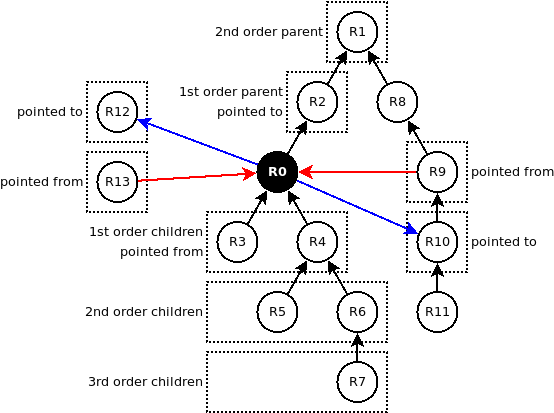
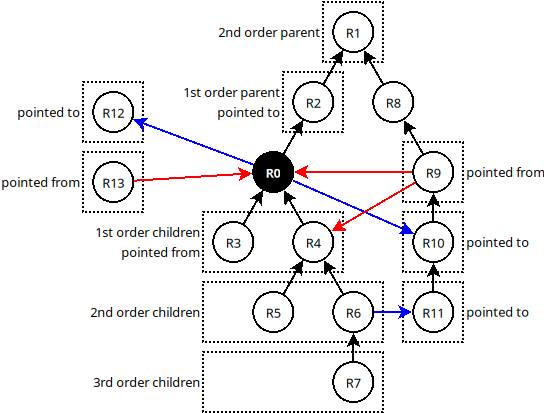
aux/metadata_api_for_programmers*: read mode description fixed

diff --git a/aux/metadata_api_for_programmers.html b/aux/metadata_api_for_programmers.html
@@ -10,7 +10,7 @@
 
 
 
-<meta name="date" content="2023-09-22" />
+<meta name="date" content="2025-02-24" />
 
 <title>ARCHE Metadata API for programmers</title>
 
@@ -230,7 +230,7 @@ overflow: visible;
 </style>
 <style type="text/css" data-origin="pandoc">
 pre > code.sourceCode { white-space: pre; position: relative; }
-pre > code.sourceCode > span { display: inline-block; line-height: 1.25; }
+pre > code.sourceCode > span { line-height: 1.25; }
 pre > code.sourceCode > span:empty { height: 1.2em; }
 .sourceCode { overflow: visible; }
 code.sourceCode > span { color: inherit; text-decoration: inherit; }
@@ -241,7 +241,7 @@ div.sourceCode { overflow: auto; }
 }
 @media print {
 pre > code.sourceCode { white-space: pre-wrap; }
-pre > code.sourceCode > span { text-indent: -5em; padding-left: 5em; }
+pre > code.sourceCode > span { display: inline-block; text-indent: -5em; padding-left: 5em; }
 }
 pre.numberSource code
 { counter-reset: source-line 0; }
@@ -421,7 +421,7 @@ display: none;
 
 
 <h1 class="title toc-ignore">ARCHE Metadata API for programmers</h1>
-<h4 class="date">2023-09-22</h4>
+<h4 class="date">2025-02-24</h4>
 
 </div>
 
@@ -618,9 +618,8 @@ the repository structure we want go (by following the RDF property
 indicated by the <code>parentProperty</code> request parameter)</li>
 <li><code>{pointed to}</code> and <code>{pointed from}</code> are binary
 flags (they take only values od <code>0</code> or <code>1</code>) and
-indicate if resources pointed by the <strong><em>requested
-resource</em></strong> and pointing to the <strong><em>requested
-resource</em></strong> should be included, respectively</li>
+indicate if resources pointed by/pointing to all the resource collected
+according to the rules from the previous point should be included.</li>
 </ul>
 <div id="examples" class="section level2">
 <h2>Examples</h2>
@@ -628,7 +627,7 @@ resource</em></strong> should be included, respectively</li>
 resources with the black one being the requested one, black arrows are
 parent RDF properties, blue and red arrows are any other RDF
 properties):</p>
[2 lines of base64/hex data omitted]
 <ul>
 <li>readMode <code>0_0_0_0</code> matches only the <em>requested
 resource</em> - the <code>R0</code>.</li>
@@ -656,11 +655,13 @@ resource</em> (<code>R0</code>) and its children up to the second order
 <li>readMode <code>2_1_1_0</code> is a union of results for
 <code>2_0_0_0</code> (<code>R0</code>, <code>R3</code>, <code>R4</code>,
 <code>R5</code>, <code>R6</code>), <code>0_1_0_0</code>
-(<code>R0</code>, <code>R2</code>) and <code>0_0_1_0</code>
-(<code>R0</code>, <code>R2</code>, <code>R10</code>, <code>R12</code>)
-so all in all it covers <code>R0</code>, <code>R2</code>,
-<code>R3</code>, <code>R4</code>, <code>R5</code>, <code>R6</code>,
-<code>R10</code> and <code>R12</code></li>
+(<code>R0</code>, <code>R2</code>) which is then extended by all
+resources this union resources’ point to (<code>R0</code>,
+<code>R1</code> <code>R2</code>, <code>R10</code>, <code>R11</code>,
+<code>R12</code>) so all in all it covers <code>R0</code>,
+<code>R1</code>, <code>R2</code>, <code>R3</code>, <code>R4</code>,
+<code>R5</code>, <code>R6</code>, <code>R10</code>, <code>R11</code> and
+<code>R12</code></li>
 </ul>
 </div>
 <div id="readmode-shorthands" class="section level2">
